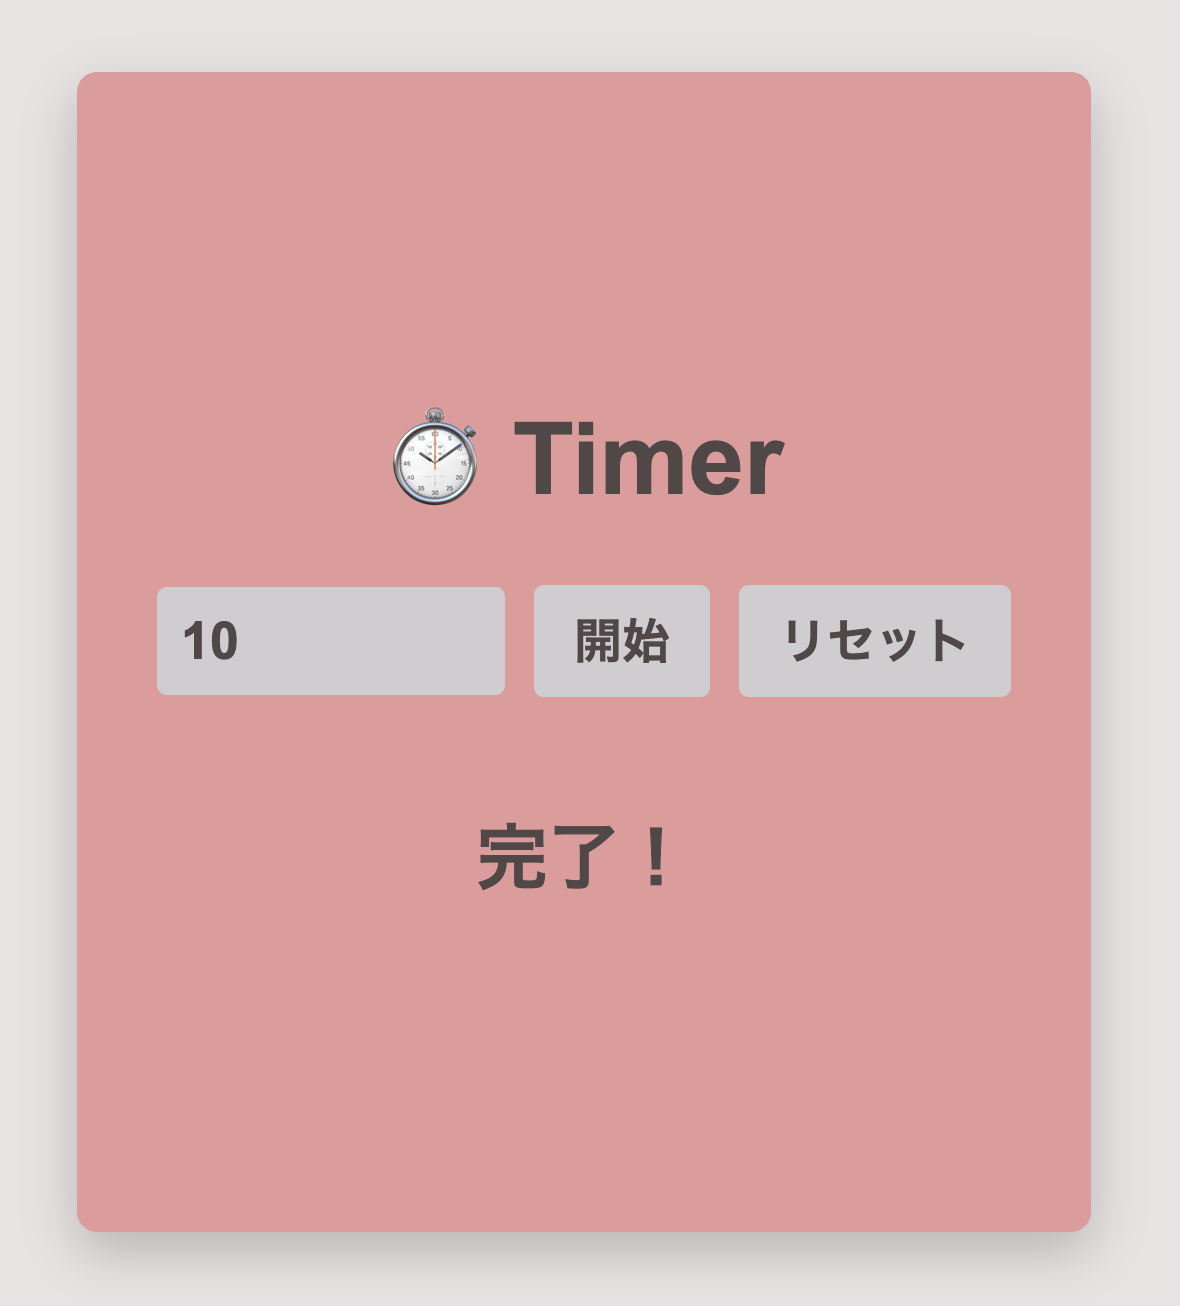
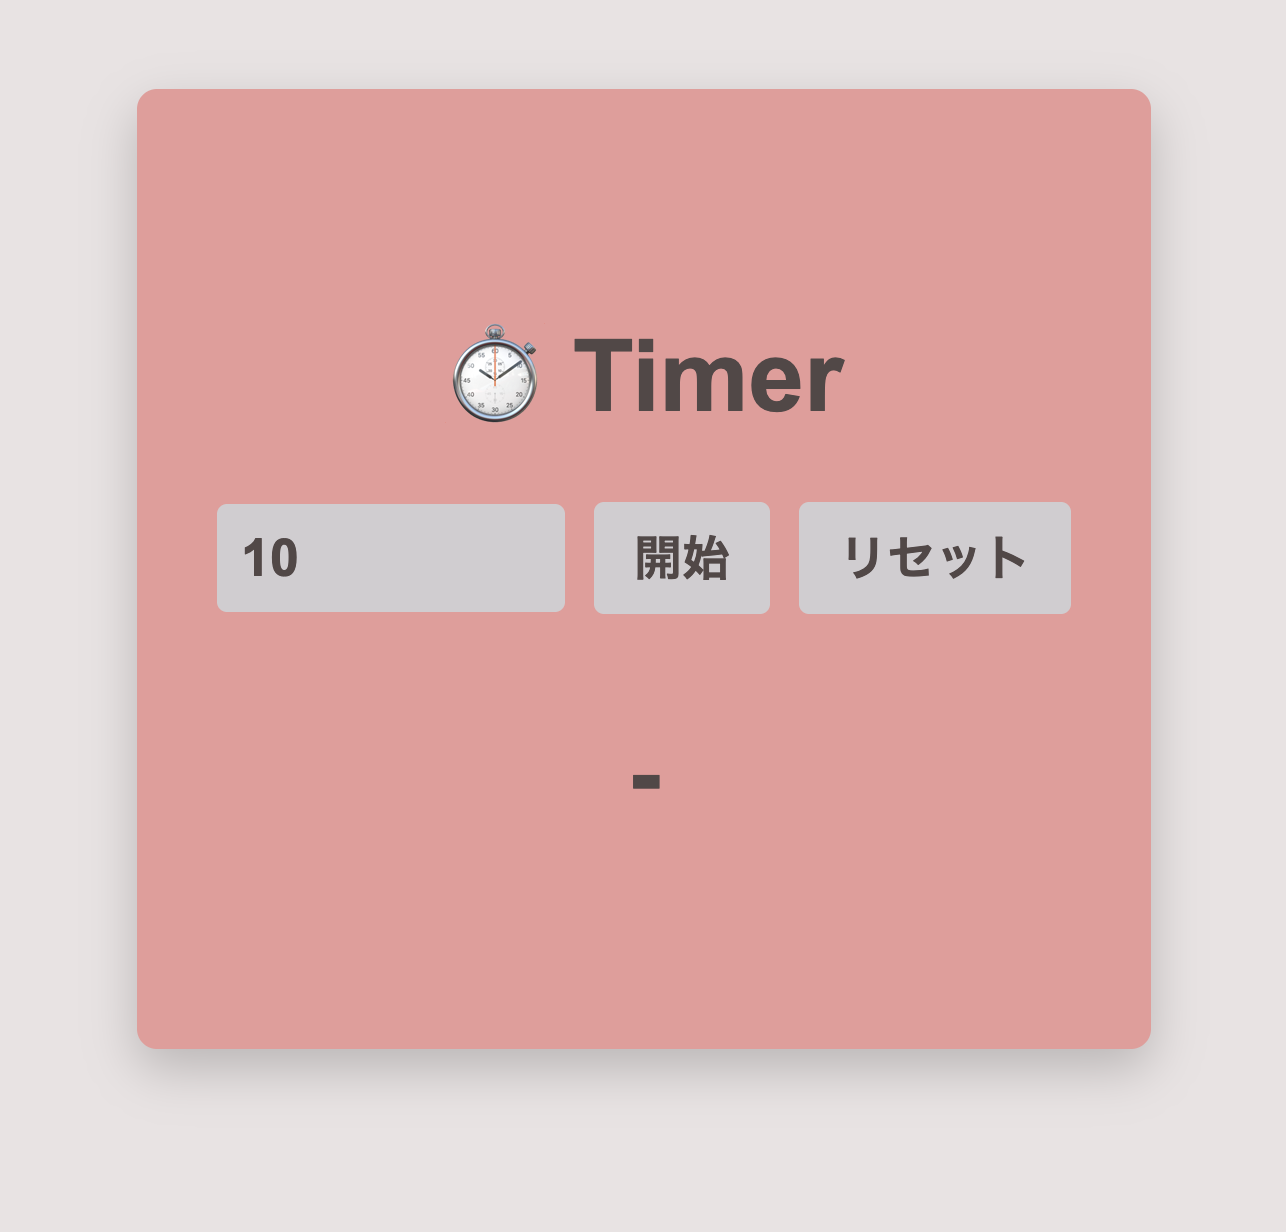
Adjust screenshot size in README

Changed region(s): [[0.061, 0.0308, 0.9458, 0.9562], [0.3966, 0.6169, 0.5186, 0.6786], [0.5492, 0.6169, 0.5797, 0.6786]]

diff --git a/index.html b/index.html
@@ -21,7 +21,7 @@
         border-radius: 10px;
         box-shadow: 0 10px 25px rgba(0, 0, 0, 0.2);
         text-align: center;
-        height: 500px;
+        height: 400px;
         display: flex;
         flex-direction: column;
         justify-content: center;
